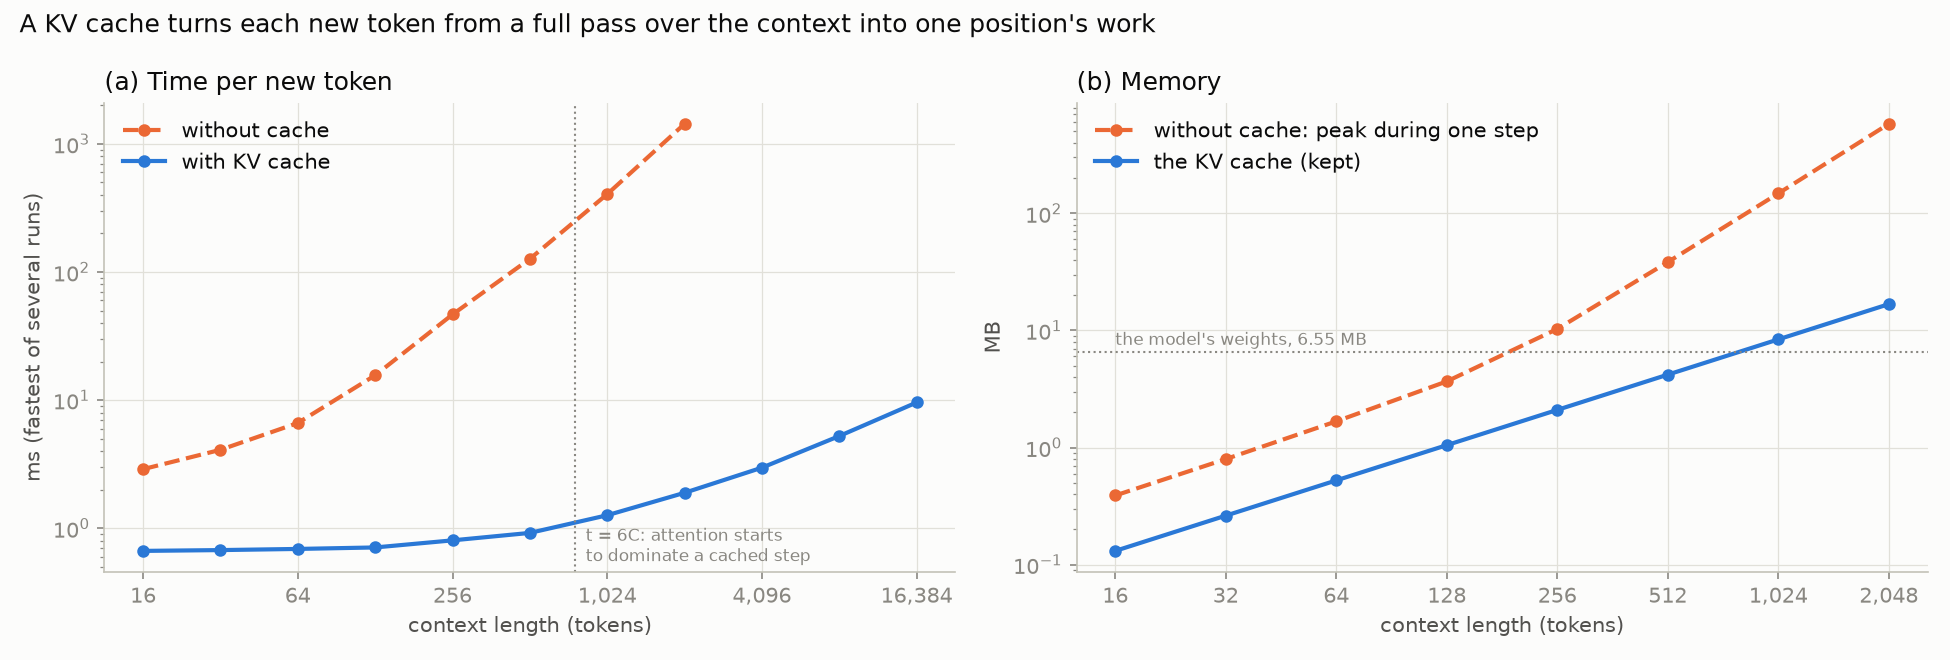
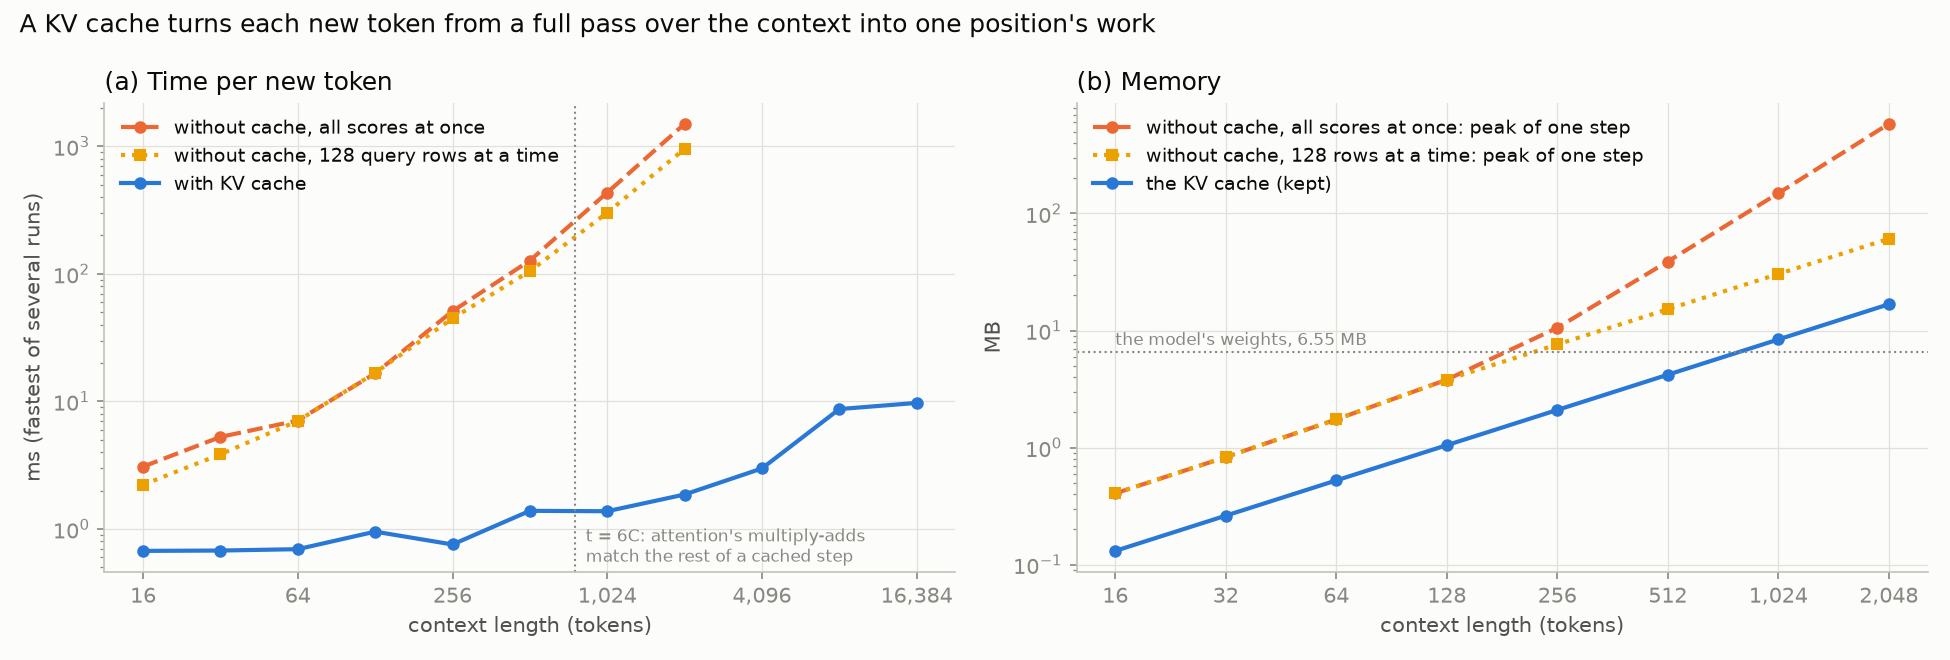
04: fairer uncached baseline, fix memory claim

diff --git a/04-kv-cache/run.py b/04-kv-cache/run.py
@@ -3,7 +3,7 @@ how much faster does generation get with a kv cache, and how much memory does it
 the long contexts use the same architecture as 03 with random weights and a longer position table
 (the trained model only has 128 positions). part 1 checks that the weights don't change the speed.
 
-python run.py           ~2 min on a laptop cpu
+python run.py           ~2.5 min on a laptop cpu
 python run.py --quick   stops the cached sweep at 2048 and skips the 512-token run, ~1 min
 writes figures/kv_cache.png
 """
@@ -23,6 +23,7 @@ from gpt import init_gpt
 
 OUT = Path(__file__).parent / 'figures' / 'kv_cache.png'
 CTX = [16, 32, 64, 128, 256, 512, 1024, 2048] # without the cache it stops at 2048, 4096 needs ~0.5 GB per score matrix
+ROWS = 128 # the fairer uncached baseline: attention 128 query rows at a time, never all t x t scores
 CTX_LONG = [4096, 8192, 16384] # cached only
 
 # -----------------------------------------------------------------------------
@@ -37,8 +38,8 @@ def best_time(f, repeats=5):
         best = min(best, time.perf_counter() - t0)
     return best
 
-def time_uncached(p, cfg, ids, t, repeats=5):
-    return best_time(lambda: forward(p, ids[:, :t], cfg), repeats)
+def time_uncached(p, cfg, ids, t, repeats=5, rows=None):
+    return best_time(lambda: forward(p, ids[:, :t], cfg, rows=rows), repeats)
 
 def time_cached(p, cfg, ids, t, repeats=7):
     # fill t-1 positions once, then time decoding token t
@@ -73,9 +74,9 @@ def greedy(p, cfg, n, cached):
 # plotting
 
 BG, INK, INK2, MUTED, GRID, AXIS = '#fcfcfb', '#0b0b0b', '#52514e', '#898781', '#e1e0d9', '#c3c2b7'
-BLUE, ORANGE = '#2a78d6', '#eb6834'
+BLUE, ORANGE, YELLOW = '#2a78d6', '#eb6834', '#eda100'
 
-def plot(t_unc, t_cac, mem_unc, mem_cache, model_mb, C):
+def plot(t_unc, t_blk, t_cac, mem_unc, mem_blk, mem_cache, model_mb, C):
     plt.rcParams.update({
         'figure.facecolor': BG, 'axes.facecolor': BG, 'savefig.facecolor': BG,
         'axes.edgecolor': AXIS, 'axes.labelcolor': INK2, 'text.color': INK, 'axes.titlecolor': INK,
@@ -85,15 +86,17 @@ def plot(t_unc, t_cac, mem_unc, mem_cache, model_mb, C):
     })
     fig, (ax1, ax2) = plt.subplots(1, 2, figsize=(13, 4.4))
     xs_u, xs_c = sorted(t_unc), sorted(t_cac)
-    ax1.plot(xs_u, [t_unc[t] * 1e3 for t in xs_u], 'o--', color=ORANGE, ms=5, label='without cache')
+    ax1.plot(xs_u, [t_unc[t] * 1e3 for t in xs_u], 'o--', color=ORANGE, ms=5, label='without cache, all scores at once')
+    ax1.plot(xs_u, [t_blk[t] * 1e3 for t in xs_u], 's:', color=YELLOW, ms=5, label=f'without cache, {ROWS} query rows at a time')
     ax1.plot(xs_c, [t_cac[t] * 1e3 for t in xs_c], 'o-', color=BLUE, ms=5, label='with KV cache')
     ax1.axvline(6 * C, color=MUTED, ls=':', lw=1)
-    ax1.text(6 * C * 1.1, 0.5, 't = 6C: attention starts\nto dominate a cached step', color=MUTED, fontsize=8, va='bottom')
+    ax1.text(6 * C * 1.1, 0.5, "t = 6C: attention's multiply-adds\nmatch the rest of a cached step", color=MUTED, fontsize=8, va='bottom')
     ax1.set_title('(a) Time per new token', loc='left')
     ax1.set_ylabel('ms (fastest of several runs)')
 
     xs = sorted(mem_unc)
-    ax2.plot(xs, [mem_unc[t] for t in xs], 'o--', color=ORANGE, ms=5, label='without cache: peak during one step')
+    ax2.plot(xs, [mem_unc[t] for t in xs], 'o--', color=ORANGE, ms=5, label='without cache, all scores at once: peak of one step')
+    ax2.plot(xs, [mem_blk[t] for t in xs], 's:', color=YELLOW, ms=5, label=f'without cache, {ROWS} rows at a time: peak of one step')
     ax2.plot(xs, [mem_cache[t] for t in xs], 'o-', color=BLUE, ms=5, label='the KV cache (kept)')
     ax2.axhline(model_mb, color=MUTED, ls=':', lw=1)
     ax2.text(xs[0], model_mb * 1.15, f"the model's weights, {model_mb:.2f} MB", color=MUTED, fontsize=8)
@@ -104,7 +107,7 @@ def plot(t_unc, t_cac, mem_unc, mem_cache, model_mb, C):
         ax.set_yscale('log')
         ax.set_xticks(ticks, [f'{x:,}' for x in ticks])
         ax.set_xlabel('context length (tokens)')
-        ax.legend(loc='upper left')
+        ax.legend(loc='upper left', fontsize=9)
     fig.suptitle("A KV cache turns each new token from a full pass over the context into one position's work",
                  x=0.01, ha='left', fontsize=12)
     plt.tight_layout()
@@ -144,11 +147,15 @@ if __name__ == '__main__':
     err = np.abs(full - forward_cached(model, ids[:, 1499:1500], cache, cfg_long)[0, -1]).max()
     print(f"  (cached vs uncached at context 1500: {err:.1e})")
     t_unc = {t: time_uncached(model, cfg_long, ids, t, 3 if t >= 1024 else 5) for t in CTX}
+    t_blk = {t: time_uncached(model, cfg_long, ids, t, 3 if t >= 1024 else 5, rows=ROWS) for t in CTX}
     t_cac = {t: time_cached(model, cfg_long, ids, t) for t in long_ctx}
+    print(f"  {'':14s} {'without cache':>13s} {f'without, {ROWS} rows':>17s} {'with cache':>11s}   speedup vs each")
     for t in long_ctx:
-        u = f"{t_unc[t] * 1e3:9.1f} ms" if t in t_unc else f"{'-':>12s}"
-        s = f"{t_unc[t] / t_cac[t]:5.0f}x" if t in t_unc else ''
-        print(f"  context {t:6d}  without {u}  with {t_cac[t] * 1e3:6.2f} ms  {s}", flush=True)
+        if t in t_unc:
+            print(f"  context {t:6d} {t_unc[t] * 1e3:10.1f} ms {t_blk[t] * 1e3:14.1f} ms {t_cac[t] * 1e3:8.2f} ms"
+                  f"   {t_unc[t] / t_cac[t]:5.0f}x {t_blk[t] / t_cac[t]:5.0f}x", flush=True)
+        else:
+            print(f"  context {t:6d} {'-':>13s} {'-':>17s} {t_cac[t] * 1e3:8.2f} ms", flush=True)
 
     if not args.quick:
         print("\npart 3: writing 512 tokens from scratch, greedy")
@@ -159,14 +166,18 @@ if __name__ == '__main__':
         print(f"  {tu:.1f} s without cache, {tc:.2f} s with ({tu / tc:.0f}x), same tokens: {a == b}")
 
     print("\npart 4: memory")
-    mem_unc, mem_cache = {}, {}
+    mem_unc, mem_blk, mem_cache = {}, {}, {}
     for t in CTX:
         mem_unc[t] = peak_mb(lambda: forward(model, ids[:, :t], cfg_long))
+        mem_blk[t] = peak_mb(lambda: forward(model, ids[:, :t], cfg_long, rows=ROWS))
         mem_cache[t] = 2 * cfg['L'] * t * C * 8 / 1e6
     model_mb = sum(v.size for v in trained.values()) * 8 / 1e6
+    same = np.abs(forward(model, ids[:, :2048], cfg_long) - forward(model, ids[:, :2048], cfg_long, rows=ROWS)).max()
+    print(f"  (all scores at once vs {ROWS} rows at a time, logits at 2048: {same:.1e})")
     for t in CTX:
-        print(f"  context {t:5d}  uncached step peak {mem_unc[t]:7.1f} MB   cache {mem_cache[t]:6.2f} MB")
+        print(f"  context {t:5d}  uncached peak: all scores {mem_unc[t]:7.1f} MB, {ROWS} rows {mem_blk[t]:6.1f} MB"
+              f"   cache {mem_cache[t]:6.2f} MB")
     print(f"  weights {model_mb:.2f} MB, the cache passes that at {model_mb * 1e6 / (2 * cfg['L'] * C * 8):.0f} tokens")
 
-    plot(t_unc, t_cac, mem_unc, mem_cache, model_mb, C)
+    plot(t_unc, t_blk, t_cac, mem_unc, mem_blk, mem_cache, model_mb, C)
     print(f"\nsaved {OUT}  [{time.perf_counter() - t0:.0f}s]")

diff --git a/04-kv-cache/kv_cache.py b/04-kv-cache/kv_cache.py
@@ -35,28 +35,35 @@ def heads(a, H):
     return a.reshape(B, T, H, C // H).transpose(0, 2, 1, 3)
 
 
-def mlp_and_rest(x, p, i, a, v, cfg):
-    # everything in block i after the attention weights: the weighted values, the output
+def mlp_and_rest(x, p, i, att, cfg):
+    # everything in block i after attention: att is the weighted values (B, H, T, C/H). output
     # projection, then the mlp. shared by both forwards so they can't drift apart
     B, T, C = x.shape
     g = lambda k: p[f'h{i}.{k}']
-    x = x + (a @ v).transpose(0, 2, 1, 3).reshape(B, T, C) @ g('Wo')
+    x = x + att.transpose(0, 2, 1, 3).reshape(B, T, C) @ g('Wo')
     h = layer_norm(x, g('ln2_g'), g('ln2_b'))
     return x + gelu(h @ g('W1') + g('b1')) @ g('W2') + g('b2')
 
 
-def forward(p, idx, cfg):
-    # idx (B, T) -> logits (B, T, V). the whole sequence again, what 03's sample.py does
+def forward(p, idx, cfg, rows=None):
+    # idx (B, T) -> logits (B, T, V). the whole sequence again, what 03's sample.py does.
+    # rows: do attention that many query rows at a time. same logits, but it never holds all
+    # T x T scores at once (581 MB at T = 2048 in float64, see run.py)
     B, T = idx.shape
     H = cfg['H']
     x = p['wte'][idx] + p['wpe'][:T]
-    mask = np.triu(np.full((T, T), -np.inf), k=1)
+    rows = rows or T
     for i in range(cfg['L']):
         g = lambda k: p[f'h{i}.{k}']
         h = layer_norm(x, g('ln1_g'), g('ln1_b'))
         q, k, v = heads(h @ g('Wq'), H), heads(h @ g('Wk'), H), heads(h @ g('Wv'), H)
-        a = softmax(q @ k.transpose(0, 1, 3, 2) / math.sqrt(cfg['C'] // H) + mask)
-        x = mlp_and_rest(x, p, i, a, v, cfg)
+        att = np.empty_like(q)
+        for s in range(0, T, rows):
+            e = min(s + rows, T)
+            mask = np.triu(np.full((e - s, e), -np.inf), k=s + 1) # query row r sees keys 0..r
+            a = softmax(q[:, :, s:e] @ k[:, :, :e].transpose(0, 1, 3, 2) / math.sqrt(cfg['C'] // H) + mask)
+            att[:, :, s:e] = a @ v[:, :, :e]
+        x = mlp_and_rest(x, p, i, att, cfg)
     return layer_norm(x, p['lnf_g'], p['lnf_b']) @ p['wte'].T
 
 
@@ -83,7 +90,7 @@ def forward_cached(p, idx, cache, cfg):
         cache['v'][i, :, :, n:n + t] = heads(h @ g('Wv'), H)
         k, v = cache['k'][i, :, :, :n + t], cache['v'][i, :, :, :n + t]
         a = softmax(q @ k.transpose(0, 1, 3, 2) / math.sqrt(cfg['C'] // H) + mask)
-        x = mlp_and_rest(x, p, i, a, v, cfg)
+        x = mlp_and_rest(x, p, i, a @ v, cfg)
     cache['n'] = n + t
     return layer_norm(x, p['lnf_g'], p['lnf_b']) @ p['wte'].T
 

diff --git a/04-kv-cache/test_kv_cache.py b/04-kv-cache/test_kv_cache.py
@@ -20,6 +20,12 @@ def test_forward_matches_engine():
     engine = gpt({k: Tensor(v) for k, v in p.items()}, IDX, cfg).data
     assert np.abs(forward(p, IDX, cfg) - engine).max() < 1e-12
 
+def test_blocked_attention_matches():
+    # doing attention a few query rows at a time is the same model, just less memory
+    full = forward(p, IDX, cfg)
+    for rows in (1, 7, 32):
+        assert np.abs(forward(p, IDX, cfg, rows=rows) - full).max() < 1e-12, rows
+
 def test_appending_does_not_change_the_past():
     # this is what makes caching legal at all
     a = forward(p, IDX[:, :40], cfg)

diff --git a/04-kv-cache/README.md b/04-kv-cache/README.md
@@ -10,19 +10,21 @@ To write the next token you normally run the model on everything so far. But ear
 
 The trained model only has 128 positions, so for longer contexts I used the same architecture with random weights. The output is nonsense, but the work per token and the memory don't depend on the weights: trained and random take the same time at the same context, within the noise of the timings.
 
-| context | without cache | with cache | speedup |
+| context | without cache, all scores at once | without cache, 128 query rows at a time | with cache |
 |---|---|---|---|
-| 16 | ~2-4 ms | ~0.65-1.3 ms | ~3-4x |
-| 128 | ~15-24 ms | ~0.7-1.5 ms | ~16-23x |
-| 512 | ~125-185 ms | ~0.9-1.7 ms | ~105-140x |
-| 2,048 | ~1.4-1.7 s | ~1.9-3.3 ms | ~530-760x |
-| 16,384 | - | ~9.5-16 ms | |
+| 16 | ~2-4 ms | ~2.7 ms | ~0.65-1.3 ms |
+| 128 | ~15-24 ms | ~19 ms | ~0.7-1.5 ms |
+| 512 | ~125-185 ms | ~123 ms | ~0.9-1.7 ms |
+| 2,048 | ~1.4-1.7 s | ~1.06 s | ~1.9-3.3 ms |
+| 16,384 | - | - | ~9.5-16 ms |
 
-(Fastest of several tries per point, and the ranges cover six runs on the same laptop. Single timings move by up to 2x between runs, so read the shape, not the third digit.)
+(Fastest of several tries per point. The first and last columns are ranges over seven runs on the same laptop, the middle one is from one run. Single timings move by up to 2x between runs, so read the shape, not the third digit.)
 
-Without the cache each new token redoes every position and attention over every pair, so it gets slower faster and faster (about 3-3.5x per doubling by 2,048 tokens). With the cache it's flat at ~1 ms up to ~512 tokens and then grows linearly. The bend is where attention over the cache gets as expensive as the rest of the step, at t = 6C = 768 for this model. The measured speedups are always smaller than counting multiply-adds says (3-4x against 16x at 16 tokens), because a cached step is mostly a fixed ~1 ms of Python and numpy overhead at this size. Writing 512 tokens from scratch: ~27-34 s without, ~0.45-0.7 s with (~45-70x).
+At 2,048 tokens the cache is ~530-760x faster than my first uncached forward, which builds all the attention scores at once. Against the fairer baseline, attention done 128 query rows at a time (same logits, see the memory part), it's ~430x.
 
-Memory surprised me. The cache is 8 KB per token here, so 16.8 MB at 2,048 tokens, and it passes the size of the model itself (6.55 MB) at 800 tokens. But without the cache, every step builds the attention scores for all pairs, and that peaks at 581 MB at 2,048 tokens, 35x the cache. So for one sequence the cache saves memory. The cost shows up with many sequences at once, because the cache is kept per sequence. Calculated, not measured: Llama-2-7B needs 0.5 MB per token in fp16, 2.1 GB for one 4,096-token sequence, so 8 of them need more memory than the model's weights. That's why Llama-2-70B uses grouped-query attention: 10x the parameters, but a smaller cache per token (0.33 MB) than the 7B.
+Without the cache each new token redoes every position and attention over every pair, so it gets slower faster and faster (about 3-3.5x per doubling by 2,048 tokens). With the cache it's flat at ~1 ms up to ~512 tokens and then grows linearly. Counting multiply-adds, the bend is where attention over the cache catches up with the rest of the step: t = 6C = 768 for this model. In measured time it comes later, since at 768 tokens attention only adds ~0.3 ms to a step that is ~0.7 ms of fixed overhead. The measured speedups are always smaller than counting multiply-adds says (3-4x against 16x at 16 tokens), because a cached step is mostly a fixed ~1 ms of Python and numpy overhead at this size. Writing 512 tokens from scratch: ~27-34 s without, ~0.45-0.7 s with (~45-70x).
+
+Memory. The cache is 8 KB per token here, so 16.8 MB at 2,048 tokens, and it passes the size of the model itself (6.55 MB) at 800 tokens. Without the cache nothing is kept between steps, but each step needs memory for attention. My first uncached forward built the scores for all t x t pairs at once and peaked at 581 MB at 2,048 tokens, which looked like 35x the cache. That's how I wrote it, not a cost of having no cache: doing attention 128 query rows at a time gives the same logits (to 1e-15), is faster, and peaks at ~61 MB, about 3.6x the cache. FlashAttention takes the same idea further on GPUs. So for one sequence the cache is still smaller than what a step without it needs, but not by much. The real cost shows up with many sequences at once, because the cache is kept for each of them. Calculated, not measured: Llama-2-7B needs 0.5 MB per token in fp16, 2.1 GB for one 4,096-token sequence, so 8 of them need more memory than the model's weights. That's why Llama-2-70B uses grouped-query attention: 10x the parameters, but a smaller cache per token (0.33 MB) than the 7B.
 
 The limit: with learned position embeddings the cache can't slide past 128. Every cached key was made with its position baked in, and after dropping the oldest token they're all off by one. A naive sliding cache picks the same next character as the real model only 10% of the time. So past 128 `generate()` goes back to recomputing the last 128 characters every step, like 03. For short outputs the cache is much faster (100 characters in ~0.1 s), but for 300 characters it only goes from ~4.2 s to ~3.5 s, because most of them are past the limit.
 
@@ -30,14 +32,15 @@ Caveats: one laptop, float64 numpy on a CPU, not a GPU. The long contexts use ra
 
 ## Files
 
-- `kv_cache.py`: the numpy forward, the cache, chunked prefill, and `generate()` (falls back to recomputing past the context limit)
+- `kv_cache.py`: the numpy forward (optionally doing attention a block of query rows at a time), the cache, chunked prefill, and `generate()` (falls back to recomputing past the context limit)
 - `sample.py`: 03's sampler with the cache. `--no-cache` for the old way
 - `run.py`: the experiment, makes the chart
-- `test_kv_cache.py`: 10 checks. Same logits as 03's engine, prefill and one-token-at-a-time against the full forward, chunked prefill against one shot, cached generation against uncached, the same 200 characters as 03's sampler past the limit, and the cache refusing to overflow
+- `test_kv_cache.py`: 11 checks. Same logits as 03's engine, blocked attention against all-at-once, prefill and one-token-at-a-time against the full forward, chunked prefill against one shot, cached generation against uncached, the same 200 characters as 03's sampler past the limit, and the cache refusing to overflow
 - `notebooks/`: the same thing step by step ([01](notebooks/01_kv_cache.ipynb) building and checking the cache, [02](notebooks/02_experiment.ipynb) the experiment)
 
 ## Notes
 
+- The first version of `run.py` compared the cache against an uncached forward that builds all t x t scores at once, and I wrote "35x the memory" from that. A review pointed out that's my implementation, not the cost of having no cache. The blocked forward is now in `run.py` next to it.
 - The first version prefilled a 16k-token context in one call. That builds a 16k x 16k score matrix per head, about 8.6 GB in float64, and the run took 7.7 min instead of 2. Prefilling 256 tokens at a time gives the same cache. Real inference servers do chunked prefill for the same reason.
 - Skipping the autograd graph is a speedup on its own: without any cache, 300 characters take ~4.2 s with the numpy forward against ~10 s through the engine in 03.
 - Appending a token changes the earlier logits by exactly 0.0, not just "close to 0". That's the whole reason a cache is allowed.
@@ -47,7 +50,7 @@ Caveats: one laptop, float64 numpy on a CPU, not a GPU. The long contexts use ra
 ```bash
 conda activate llm-lab
 python test_kv_cache.py
-python run.py            # ~2 min
-python run.py --quick    # ~30 s
+python run.py            # ~2.5 min
+python run.py --quick    # ~40 s
 python sample.py
 ```

diff --git a/README.md b/README.md
@@ -9,7 +9,7 @@ Each module tries to answer one question, has tests showing the code is correct,
 | 01 | [autograd](01-autograd/) | How do you know your gradients are right, and how small should eps be in a gradient check? | float64 central differences get the error to ~1e-10 and catch bugs as small as 1e-6. float32 misses bugs of 1e-4 and smaller (caught = error at least 10x above the check's noise floor), and at eps = 1e-6 it calls a correct gradient 25% wrong. |
 | 02 | [attention](02-attention/) | Why does attention divide the scores by √d? | Without it, at d = 1024 attention is almost one-hot at init and the gradient through softmax is thousands of times smaller. It still trains, but the largest working learning rate drops 10x from d = 16 to 512, and a control shows that part isn't caused by the saturation. With √d, learning rates from 0.1 to 3 work at every size with SGD. With Adam the whole range moves down ~10x as d grows, so only 0.003-0.01 works at every size (see 03). |
 | 03 | [tiny GPT](03-gpt/) | Why does training without warmup get stuck? | A 0.82M char-level GPT on a Sherlock Holmes book. Without warmup it first collapses to the unigram loss, and at lr 3e-2 without clipping it's still there after 200 steps. Adam's first steps add one shared direction to the weights, up to 4.5x as strong as the strongest direction already there, and block 0 makes every position look the same. Removing just that direction from each update prevents it, shrinking the update by the same amount doesn't. |
-| 04 | [KV cache](04-kv-cache/) | How much faster does generation get with a KV cache, and how much memory does it cost? | Same logits and same text as without it. At 2,048 tokens a new token takes ~2-3 ms instead of ~1.5 s (~530-760x). The cache grows linearly (8 KB per token here) and passes the model's own size at 800 tokens, but without it each step needs 35x more temporary memory at 2,048. |
+| 04 | [KV cache](04-kv-cache/) | How much faster does generation get with a KV cache, and how much memory does it cost? | Same logits and same text as without it. At 2,048 tokens a new token takes ~2-3 ms instead of ~1-1.7 s (~430x against a forward that does attention in blocks). The cache grows linearly, 8 KB per token here, and passes the model's own size at 800 tokens. For one sequence it's still ~3.6x smaller than what a step without it needs, so the real memory cost comes from serving many sequences at once. |
 
 Next is DPO / GRPO on the GPT from 03. After that, roughly: quantization, then a tokenizer (BPE), MoE, mixed precision, LoRA, distillation, speculative decoding, simulated parallelism, and evals.
 
